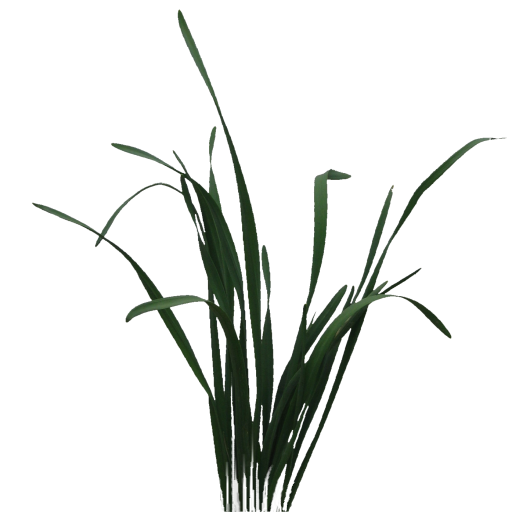
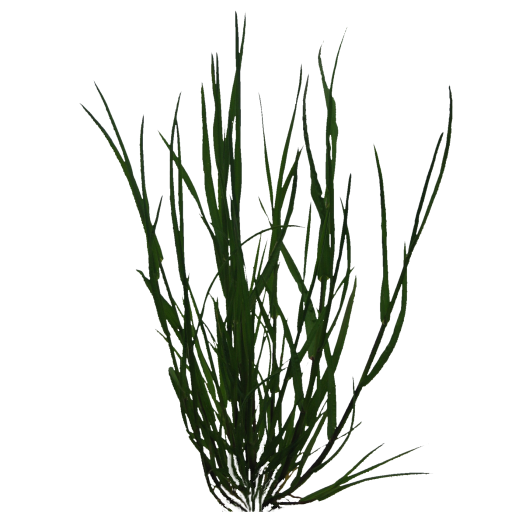
More meadows.

diff --git a/src/graphics.cpp b/src/graphics.cpp
@@ -1127,13 +1127,13 @@ void Graphics::drawDebugProjectiles(const std::map<int, Projectile>& projectiles
 
 void Graphics::drawGrass(const std::vector<Vec3>& locations)
 {
-	TextureHandler::getSingleton().bindTexture(0, "meadow");
+	TextureHandler::getSingleton().bindTexture(0, "meadow1");
 	glDisable(GL_CULL_FACE);
 	glEnable(GL_TEXTURE_2D);
-	glEnable(GL_BLEND);
-	glBlendFunc(GL_SRC_ALPHA, GL_ONE_MINUS_SRC_ALPHA);
+//	glEnable(GL_BLEND);
+//	glBlendFunc(GL_SRC_ALPHA, GL_ONE_MINUS_SRC_ALPHA);
 
-	glAlphaFunc( GL_GREATER, 0.1 ) ;
+	glAlphaFunc( GL_GREATER, 0.5 ) ;
 	glEnable( GL_ALPHA_TEST ) ;
 
 	glColor3f(1.0, 1.0, 1.0);
@@ -1142,28 +1142,29 @@ void Graphics::drawGrass(const std::vector<Vec3>& locations)
 	{
 		const Vec3& v = locations[i];
 		float s = 1.0f;
-		glTexCoord2f(0.0, 1.0); glVertex3f(v.x - s, v.y + 2*s, v.z);
-		glTexCoord2f(1.0, 1.0); glVertex3f(v.x + s, v.y + 2*s, v.z);
-		glTexCoord2f(1.0, 0.0); glVertex3f(v.x + s, v.y, v.z);
-		glTexCoord2f(0.0, 0.0); glVertex3f(v.x - s, v.y, v.z);
+		glTexCoord2f(0.0f, 1.0f); glVertex3f(v.x - s, v.y + 2*s, v.z);
+		glTexCoord2f(1.0f, 1.0f); glVertex3f(v.x + s, v.y + 2*s, v.z);
+		glTexCoord2f(1.0f, 0.0f); glVertex3f(v.x + s, v.y, v.z);
+		glTexCoord2f(0.0f, 0.0f); glVertex3f(v.x - s, v.y, v.z);
 
-		float small = 0.886;
-		float big   = 1.0;
+		float small = 0.886f;
+		float big   = 1.0f;
 
-		glTexCoord2f(0.0, 1.0); glVertex3f(v.x - s*small, v.y + 2*s, v.z - s*big);
-		glTexCoord2f(1.0, 1.0); glVertex3f(v.x + s*small, v.y + 2*s, v.z + s*big);
-		glTexCoord2f(1.0, 0.0); glVertex3f(v.x + s*small, v.y, v.z + s*big);
-		glTexCoord2f(0.0, 0.0); glVertex3f(v.x - s*small, v.y, v.z - s*big);
+		glTexCoord2f(0.0f, 1.0f); glVertex3f(v.x - s*small, v.y + 2*s, v.z - s*big);
+		glTexCoord2f(1.0f, 1.0f); glVertex3f(v.x + s*small, v.y + 2*s, v.z + s*big);
+		glTexCoord2f(1.0f, 0.0f); glVertex3f(v.x + s*small, v.y, v.z + s*big);
+		glTexCoord2f(0.0f, 0.0f); glVertex3f(v.x - s*small, v.y, v.z - s*big);
 
-		glTexCoord2f(0.0, 1.0); glVertex3f(v.x + s*small, v.y + 2*s, v.z - s*big);
-		glTexCoord2f(1.0, 1.0); glVertex3f(v.x - s*small, v.y + 2*s, v.z + s*big);
-		glTexCoord2f(1.0, 0.0); glVertex3f(v.x - s*small, v.y, v.z + s*big);
-		glTexCoord2f(0.0, 0.0); glVertex3f(v.x + s*small, v.y, v.z - s*big);
+		glTexCoord2f(0.0f, 1.0f); glVertex3f(v.x + s*small, v.y + 2*s, v.z - s*big);
+		glTexCoord2f(1.0f, 1.0f); glVertex3f(v.x - s*small, v.y + 2*s, v.z + s*big);
+		glTexCoord2f(1.0f, 0.0f); glVertex3f(v.x - s*small, v.y, v.z + s*big);
+		glTexCoord2f(0.0f, 0.0f); glVertex3f(v.x + s*small, v.y, v.z - s*big);
 
 		QUADS_DRAWN_THIS_FRAME += 3;
 	}
 	glEnd();
-	glDisable(GL_BLEND);
+//	glDisable(GL_BLEND);
+	glDisable(GL_ALPHA_TEST);
 	glEnable(GL_CULL_FACE);
 }
 
